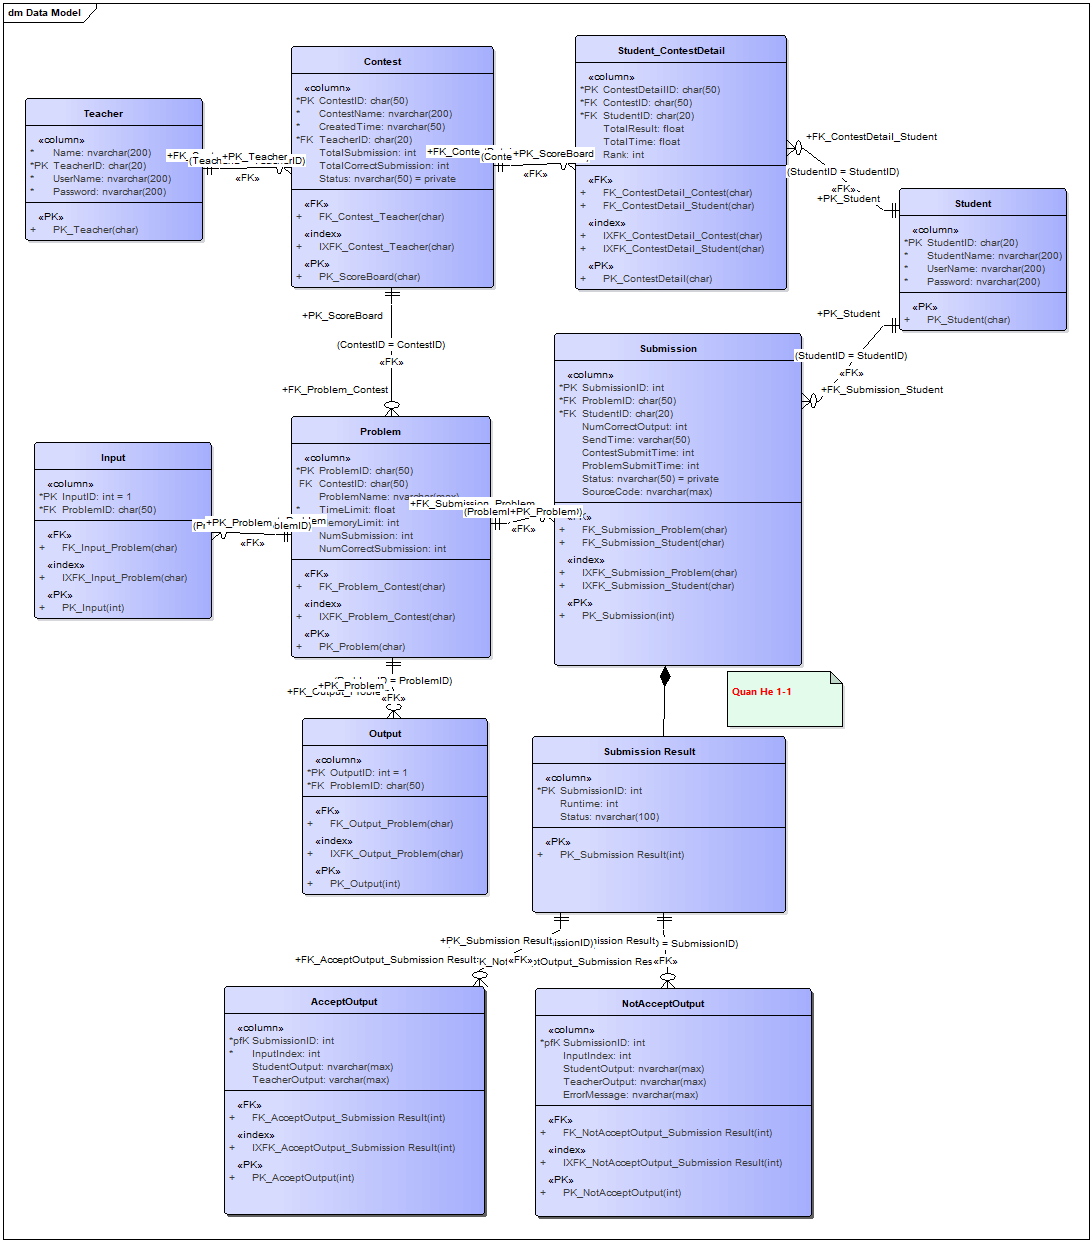
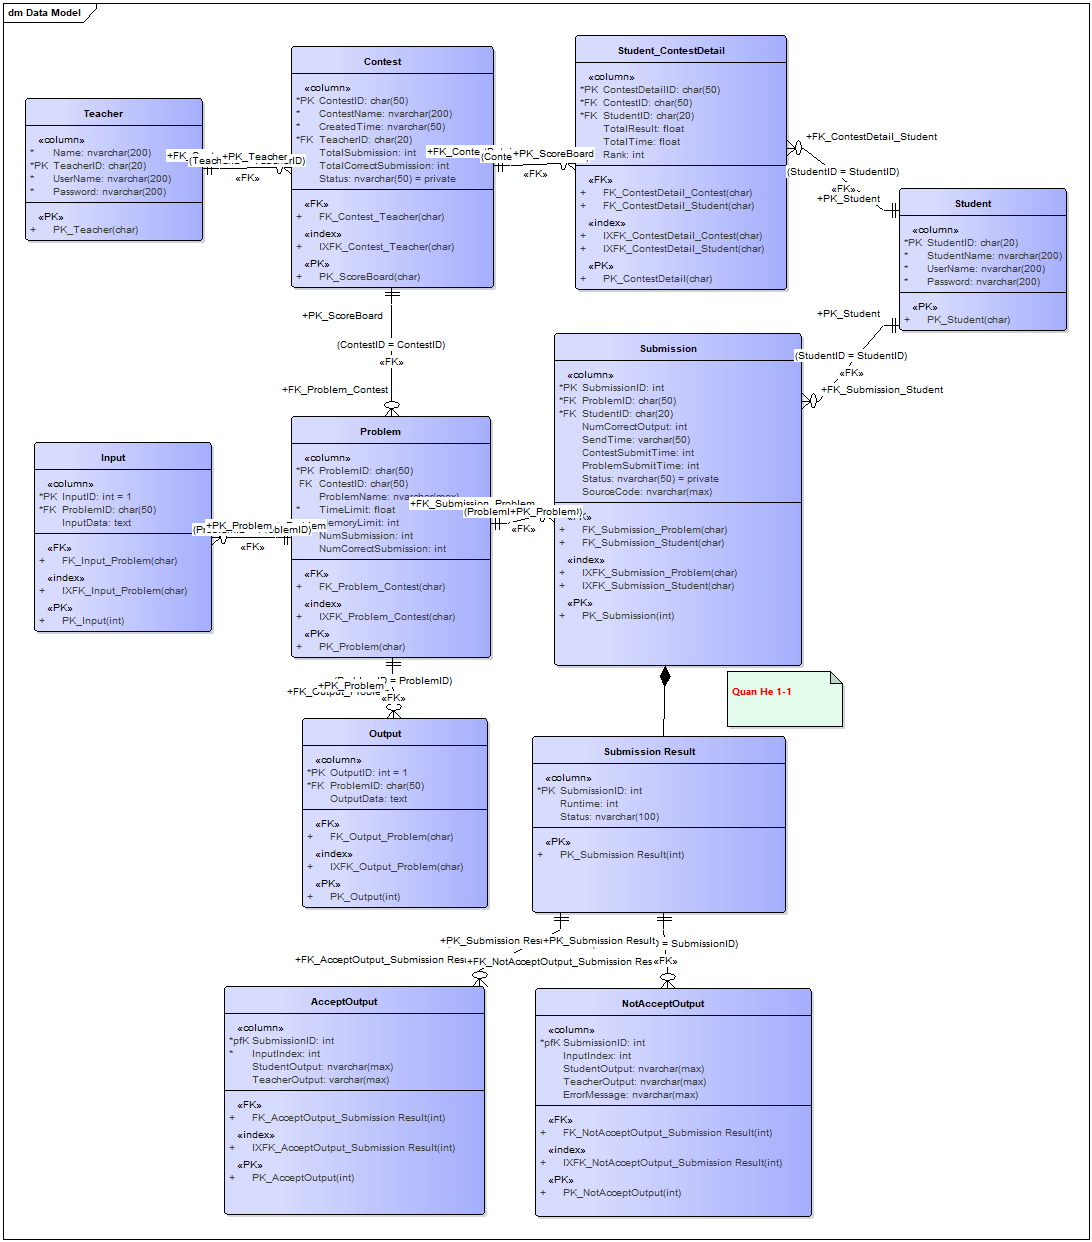
update Model Diagram and Entities

diff --git a/Project/ATP-jpa/src/Entities/Teacher.java b/Project/ATP-jpa/src/Entities/Teacher.java
@@ -12,26 +12,29 @@ import javax.persistence.*;
  */
 @Entity
 @NamedQueries({
-    @NamedQuery(name="Country.findAll",
+    @NamedQuery(name="Teacher.findAll",
                 query="SELECT t FROM Teacher t"),
-    @NamedQuery(name="Country.findByName",
+    @NamedQuery(name="Teacher.findByName",
                 query="SELECT t FROM Teacher t WHERE t.TeacherName = :name"),
-    @NamedQuery(name="Country.findAllContestCreatedByTeacher",
+    @NamedQuery(name="Teacher.findAllContestCreatedByTeacher",
     			query="SELECT c FROM Contest c WHERE c.TeacherId = :id"),
 }) 
 public class Teacher implements Serializable {
 
-	   
-	@Id @GeneratedValue
-	private int TeacherId;
+	private static final long serialVersionUID = 1L;
+	@Id
+	private String TeacherId;
 	@Column(name = "TeacherName",nullable=false)
 	private String TeacherName;
-	private static final long serialVersionUID = 1L;
+	@Column(nullable = false)
+	private String UserName;
+	@Column(nullable = false)
+	private String Password;
 	
 	@OneToMany(mappedBy="Teacher")
 	private List<Contest> contests;
 	
-	public Teacher(int teacherId, String teacherName) {
+	public Teacher(String teacherId, String teacherName) {
 		super();
 		TeacherId = teacherId;
 		TeacherName = teacherName;
@@ -39,11 +42,11 @@ public class Teacher implements Serializable {
 	public Teacher() {
 		super();
 	}   
-	public int getTeacherId() {
+	public String getTeacherId() {
 		return this.TeacherId;
 	}
 
-	public void setTeacherId(int TeacherId) {
+	public void setTeacherId(String TeacherId) {
 		this.TeacherId = TeacherId;
 	}   
 	public String getTeacherName() {
@@ -53,5 +56,18 @@ public class Teacher implements Serializable {
 	public void setTeacherName(String TeacherName) {
 		this.TeacherName = TeacherName;
 	}
+	public String getUserName() {
+		return UserName;
+	}
+	public void setUserName(String userName) {
+		UserName = userName;
+	}
+	public String getPassword() {
+		return Password;
+	}
+	public void setPassword(String password) {
+		Password = password;
+	}
+	
    
 }

diff --git a/Project/ATP-jpa/src/Entities/Input.java b/Project/ATP-jpa/src/Entities/Input.java
@@ -17,7 +17,7 @@ public class Input implements Serializable {
 	private int InputId;
 	@Column(name="ProblemId")
 	private String ProblemId;
-	private String InputTest;
+	private String InputData;
 	
 	private static final long serialVersionUID = 1L;
 	
@@ -29,7 +29,7 @@ public class Input implements Serializable {
 		super();
 		InputId = inputId;
 		ProblemId = problemId;
-		InputTest = inputTest;
+		InputData = inputTest;
 	}
 	public Input() {
 		super();
@@ -49,11 +49,11 @@ public class Input implements Serializable {
 		this.ProblemId = ProblemId;
 	}   
 	public String getInputTest() {
-		return this.InputTest;
+		return this.InputData;
 	}
 
 	public void setInputTest(String InputTest) {
-		this.InputTest = InputTest;
+		this.InputData = InputTest;
 	}
    
 }

diff --git a/Project/ATP-jpa/src/Entities/Student.java b/Project/ATP-jpa/src/Entities/Student.java
@@ -20,6 +20,10 @@ public class Student implements Serializable {
 	private String StudentId;
 	@Column(nullable = false)
 	private String StudentName;
+	@Column(nullable = false)
+	private String UserName;
+	@Column(nullable = false)
+	private String Password;
 	private static final long serialVersionUID = 1L;
 	
 	@OneToMany(mappedBy = "Student")
@@ -50,5 +54,18 @@ public class Student implements Serializable {
 	public void setStudentName(String StudentName) {
 		this.StudentName = StudentName;
 	}
+	public String getUserName() {
+		return UserName;
+	}
+	public void setUserName(String userName) {
+		UserName = userName;
+	}
+	public String getPassword() {
+		return Password;
+	}
+	public void setPassword(String password) {
+		Password = password;
+	}
+	
    
 }

diff --git a/Project/ATP-jpa/src/Entities/Output.java b/Project/ATP-jpa/src/Entities/Output.java
@@ -18,7 +18,7 @@ public class Output implements Serializable {
 	private int OutputId;
 	@Column(name="ProblemId")
 	private String ProblemId;
-	private String OutputTest;
+	private String OutputData;
 	
 	
 	private static final long serialVersionUID = 1L;
@@ -34,7 +34,7 @@ public class Output implements Serializable {
 		super();
 		OutputId = outputId;
 		ProblemId = problemId;
-		OutputTest = outputTest;
+		OutputData = outputTest;
 	}
 
 	public int getOutputId() {
@@ -54,11 +54,11 @@ public class Output implements Serializable {
 	}
 
 	public String getOutputTest() {
-		return OutputTest;
+		return OutputData;
 	}
 
 	public void setOutputTest(String outputTest) {
-		OutputTest = outputTest;
+		OutputData = outputTest;
 	}
 	
    

diff --git a/Project/ATP-jpa/src/Entities/NotAcceptOutput.java b/Project/ATP-jpa/src/Entities/NotAcceptOutput.java
@@ -19,6 +19,7 @@ public class NotAcceptOutput implements Serializable {
 	private int InputIndex;
 	private String StudentOutput;
 	private String TeacherOutput;
+	private String ErrorMessage;
 	private static final long serialVersionUID = 1L;
 
 	@ManyToOne
@@ -56,5 +57,12 @@ public class NotAcceptOutput implements Serializable {
 	public void setTeacherOutput(String TeacherOutput) {
 		this.TeacherOutput = TeacherOutput;
 	}
+	public String getErrorMessage() {
+		return ErrorMessage;
+	}
+	public void setErrorMessage(String errorMessage) {
+		ErrorMessage = errorMessage;
+	}
+	
    
 }

diff --git a/Project/ATP-jpa/src/Entities/Contest.java b/Project/ATP-jpa/src/Entities/Contest.java
@@ -33,7 +33,7 @@ public class Contest implements Serializable {
 	private Teacher Teacher;
 	
 	@OneToMany(mappedBy="Contest")
-	private List<Student_ContestDetail> contestDetails;
+	private List<Student_ContestDetail> ContestDetails;
 	
 	@OneToMany(mappedBy="Contest")
 	private List<Problem> Problems;

diff --git a/Project/ATP-jpa/src/Entities/Submission.java b/Project/ATP-jpa/src/Entities/Submission.java
@@ -26,6 +26,7 @@ public class Submission implements Serializable {
 	private int ContestSubmitTime;
 	private int ProblemSubmitTime;
 	private String Status;
+	private String SourceCode;
 	private static final long serialVersionUID = 1L;
 	@OneToOne
 	private SubmissionResult SubmissionResult;
